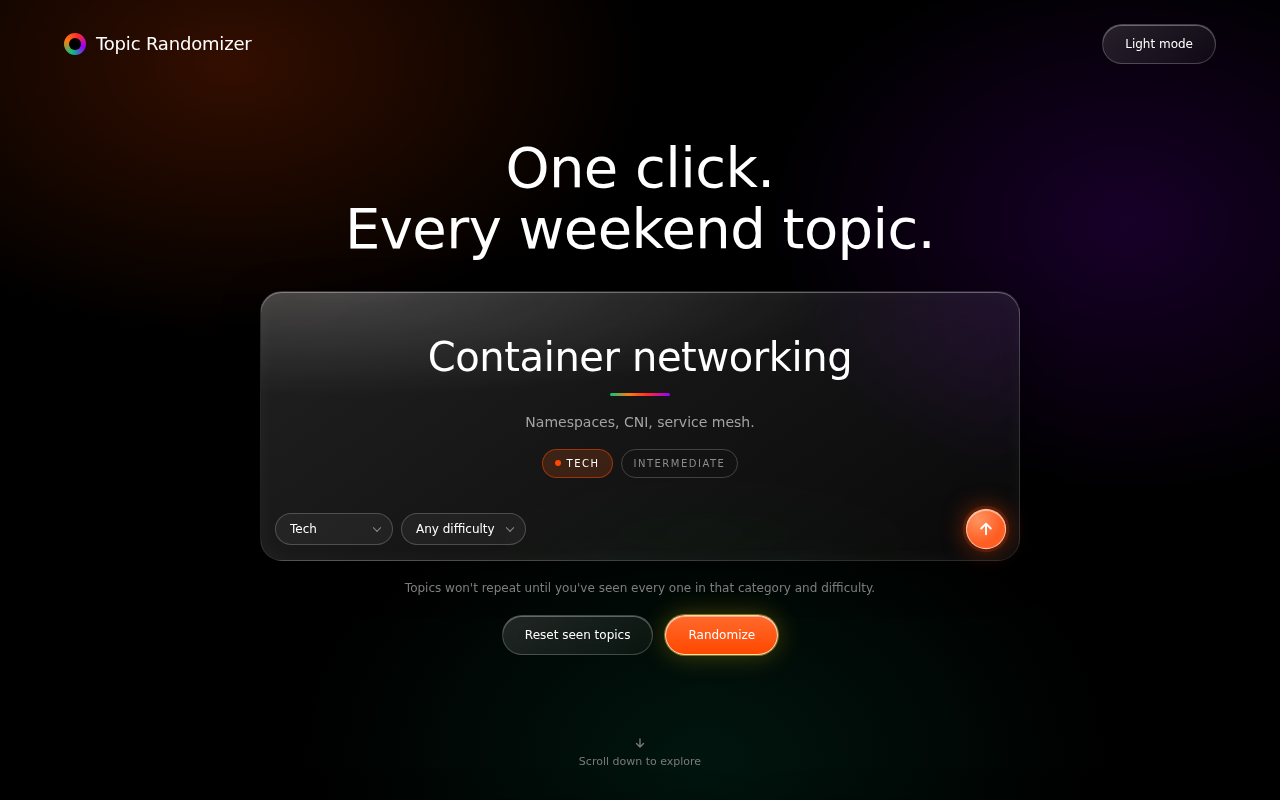
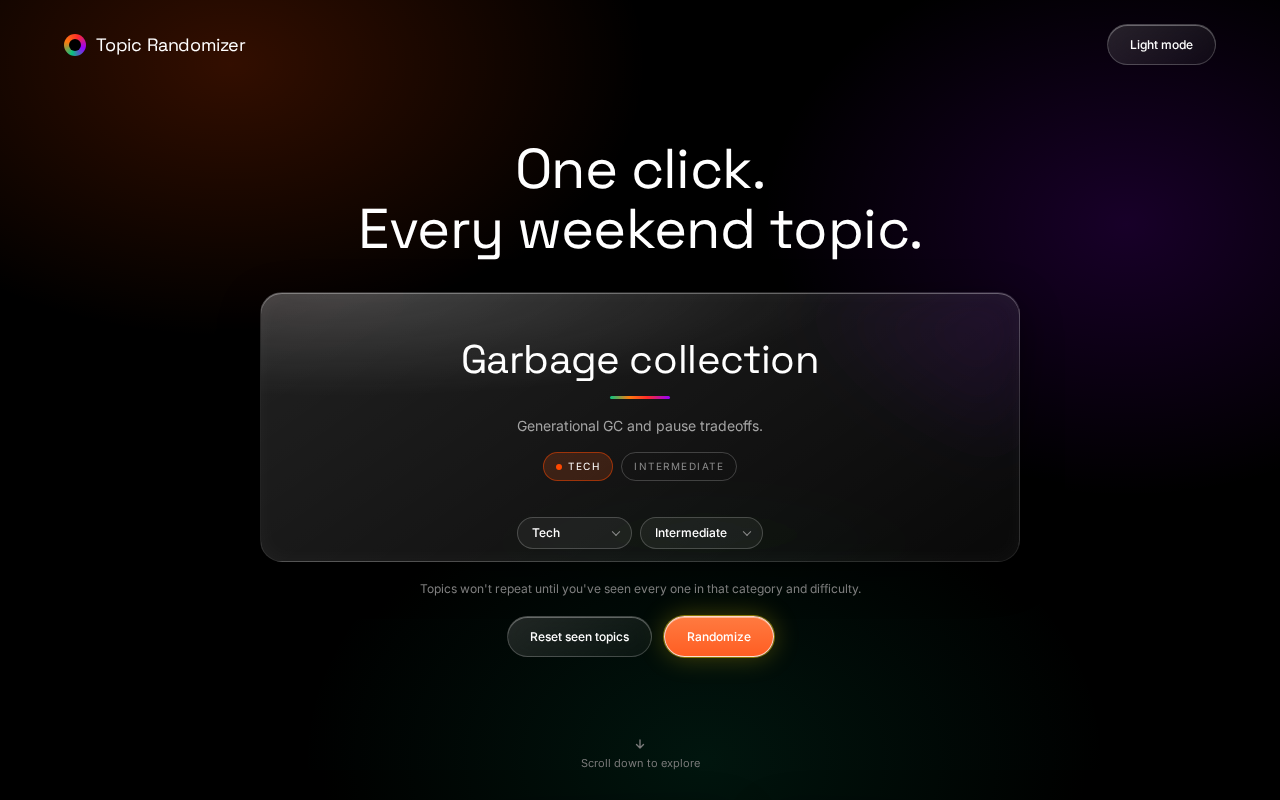
clean up
image change and light image

diff --git a/index.html b/index.html
@@ -147,7 +147,7 @@ option{background:var(--color-carbon);color:var(--color-white)}
   cursor:pointer;
   transition:background .15s,transform .05s,box-shadow .15s;
 }
-.btn:focus-visible,.orb:focus-visible,.pill-select select:focus-visible,.scroll-hint:focus-visible{outline:2px solid var(--color-white);outline-offset:2px}
+.btn:focus-visible,.pill-select select:focus-visible,.scroll-hint:focus-visible{outline:2px solid var(--color-white);outline-offset:2px}
 .btn:active{transform:translateY(1px)}
 .btn:disabled{opacity:.45;cursor:default;transform:none}
 .btn-sm{padding:7px 14px}
@@ -201,8 +201,7 @@ option{background:var(--color-carbon);color:var(--color-white)}
 .chip[hidden]{display:none}
 .chip-accent{border-color:rgba(255,72,0,.5);background:rgba(202,78,23,.22);color:var(--color-white)}
 .chip-accent::before{content:"";width:6px;height:6px;border-radius:50%;background:var(--color-signal-orange)}
-.composer-bar{display:flex;align-items:center;gap:8px;padding:12px 14px;flex-wrap:wrap}
-.composer-bar .spacer{flex:1}
+.composer-bar{display:flex;align-items:center;justify-content:center;gap:8px;padding:12px 14px;flex-wrap:wrap}
 .pill-select{position:relative}
 .pill-select select{
   appearance:none;-webkit-appearance:none;
@@ -215,18 +214,8 @@ option{background:var(--color-carbon);color:var(--color-white)}
   border-right:1.5px solid var(--color-steel);border-bottom:1.5px solid var(--color-steel);
   transform:translateY(-70%) rotate(45deg);pointer-events:none;
 }
-.orb{
-  width:38px;height:38px;border-radius:50%;
-  border:1px solid rgba(255,255,255,.55);
-  background:radial-gradient(circle at 30% 25%,#ff7a3d,var(--color-signal-orange) 60%);
-  color:#fff;display:grid;place-items:center;cursor:pointer;
-  box-shadow:0 0 0 3px rgba(255,72,0,.18),0 0 22px rgba(255,72,0,.55),inset 0 1px 0 rgba(255,255,255,.5);
-  transition:transform .15s;
-}
-.orb:hover{transform:scale(1.06);background:radial-gradient(circle at 30% 25%,#ff9560,var(--color-ember) 60%)}
-.orb svg{width:16px;height:16px}
-.shuffling .orb{animation:pulse .5s ease-in-out infinite alternate}
-@keyframes pulse{from{transform:scale(1)}to{transform:scale(1.12)}}
+#randomize.shuffling{animation:pulse .5s ease-in-out infinite alternate}
+@keyframes pulse{from{transform:scale(1)}to{transform:scale(1.06)}}
 .hero-help{max-width:520px;color:var(--color-steel);font-size:12px;margin:18px 0}
 .cta-row{display:flex;gap:12px;flex-wrap:wrap;justify-content:center}
 .scroll-hint{
@@ -286,8 +275,7 @@ footer{margin-top:48px;padding-top:20px;border-top:1px solid var(--line);text-al
 :root[data-theme="light"] .tile{background:#ffffff;box-shadow:0 1px 2px rgba(30,35,80,.06)}
 :root[data-theme="light"] .chip{background:rgba(255,255,255,.8)}
 :root[data-theme="light"] .chip-accent{background:rgba(255,72,0,.12);border-color:rgba(255,72,0,.45)}
-:root[data-theme="light"] .btn-primary{border-color:#fff}
-@media (prefers-reduced-motion:reduce){
+&@media (prefers-reduced-motion:reduce){
   html{scroll-behavior:auto}
   *{animation:none!important;transition:none!important}
 }
@@ -308,7 +296,7 @@ footer{margin-top:48px;padding-top:20px;border-top:1px solid var(--line);text-al
       <div class="composer-body" aria-live="polite">
         <div class="result-name" id="topicName">Pick a topic</div>
         <div class="underline"></div>
-        <p class="result-desc" id="topicDesc">Choose a category and difficulty, then hit the arrow.</p>
+        <p class="result-desc" id="topicDesc">Choose a category and difficulty, then hit Randomize.</p>
         <div class="chips">
           <span class="chip chip-accent" id="topicCat" hidden></span>
           <span class="chip" id="topicDiff">Difficulty</span>
@@ -328,10 +316,6 @@ footer{margin-top:48px;padding-top:20px;border-top:1px solid var(--line);text-al
             <option>Advanced</option>
           </select>
         </div>
-        <span class="spacer"></span>
-        <button class="orb" id="randomizeOrb" type="button" aria-label="Randomize">
-          <svg viewBox="0 0 16 16" fill="none" stroke="currentColor" stroke-width="1.8" stroke-linecap="round" stroke-linejoin="round" aria-hidden="true"><path d="M8 13V3M3.5 7.5 8 3l4.5 4.5"/></svg>
-        </button>
       </div>
     </div>
 
@@ -644,7 +628,7 @@ function renderHistory(){
   ul.innerHTML='';
   history.slice(0,10).forEach(h=>{
     const li=document.createElement('li');
-    li.innerHTML=`<input type="checkbox" class="checkbox" ${h.done?'checked':''} data-id="${h.id}" aria-label="Mark done"><div><div class="topic">${h.topic}</div><div class="meta">${h.category}</div></div><span class="muted">${new Date(h.ts).toLocaleDateString()}</span>`;
+    li.innerHTML=`<input type="checkbox" class="checkbox" ${h.done?'checked':''} data-id="${h.id}" aria-label="Mark done"><div><div class="topic">${h.topic}</div><div class="meta">${h.category}${h.pair?' · Weekend Pair':''}</div></div><span class="muted">${new Date(h.ts).toLocaleDateString()}</span>`;
     ul.appendChild(li);
   })
 }
@@ -707,12 +691,11 @@ let busy=false;
 async function randomizeSafe(){
   if(busy) return;
   busy=true;
-  const box=document.getElementById('composer');
-  box.classList.add('shuffling');
-  try{ await randomize() } finally { busy=false; box.classList.remove('shuffling') }
+  const btn=document.getElementById('randomize');
+  btn.classList.add('shuffling');
+  try{ await randomize() } finally { busy=false; btn.classList.remove('shuffling') }
 }
 document.getElementById('randomize').addEventListener('click',randomizeSafe);
-document.getElementById('randomizeOrb').addEventListener('click',randomizeSafe);
 
 // Footer: how many built-in topics there are
 (function(){
@@ -754,6 +737,13 @@ document.getElementById('pairBtn').addEventListener('click',()=>{
     <div class="tile"><h3 style="margin:0 0 8px;font-family:var(--font-acid);font-weight:400;font-size:22px">Tech</h3><div>${t1.name}</div><div class="muted">${descOf(t1)}</div></div>
     <div class="tile"><h3 style="margin:0 0 8px;font-family:var(--font-acid);font-weight:400;font-size:22px">${cat2}</h3><div>${t2.name}</div><div class="muted">${descOf(t2)}</div></div>
   `;
+  // Add both topics to History (Tech on top, then the second one)
+  const now = Date.now();
+  history.unshift({id:uuid(),category:cat2,topic:t2.name,ts:now,done:false,pair:true});
+  history.unshift({id:uuid(),category:'Tech',topic:t1.name,ts:now,done:false,pair:true});
+  while(history.length>50) history.pop();
+  save('history',history);
+  renderHistory();
 });
 
 // Add topic
@@ -790,7 +780,7 @@ function showUndo(){
   undoTimer = setTimeout(hideUndo, 8000);
 }
 document.getElementById('undoBtn').addEventListener('click',()=>{
-  if(clearedBackup){ history = clearedBackup; save('history',history); renderHistory() }
+  if(clearedBackup){ history = [...history, ...clearedBackup].slice(0,50); save('history',history); renderHistory() }
   hideUndo();
 });
 
